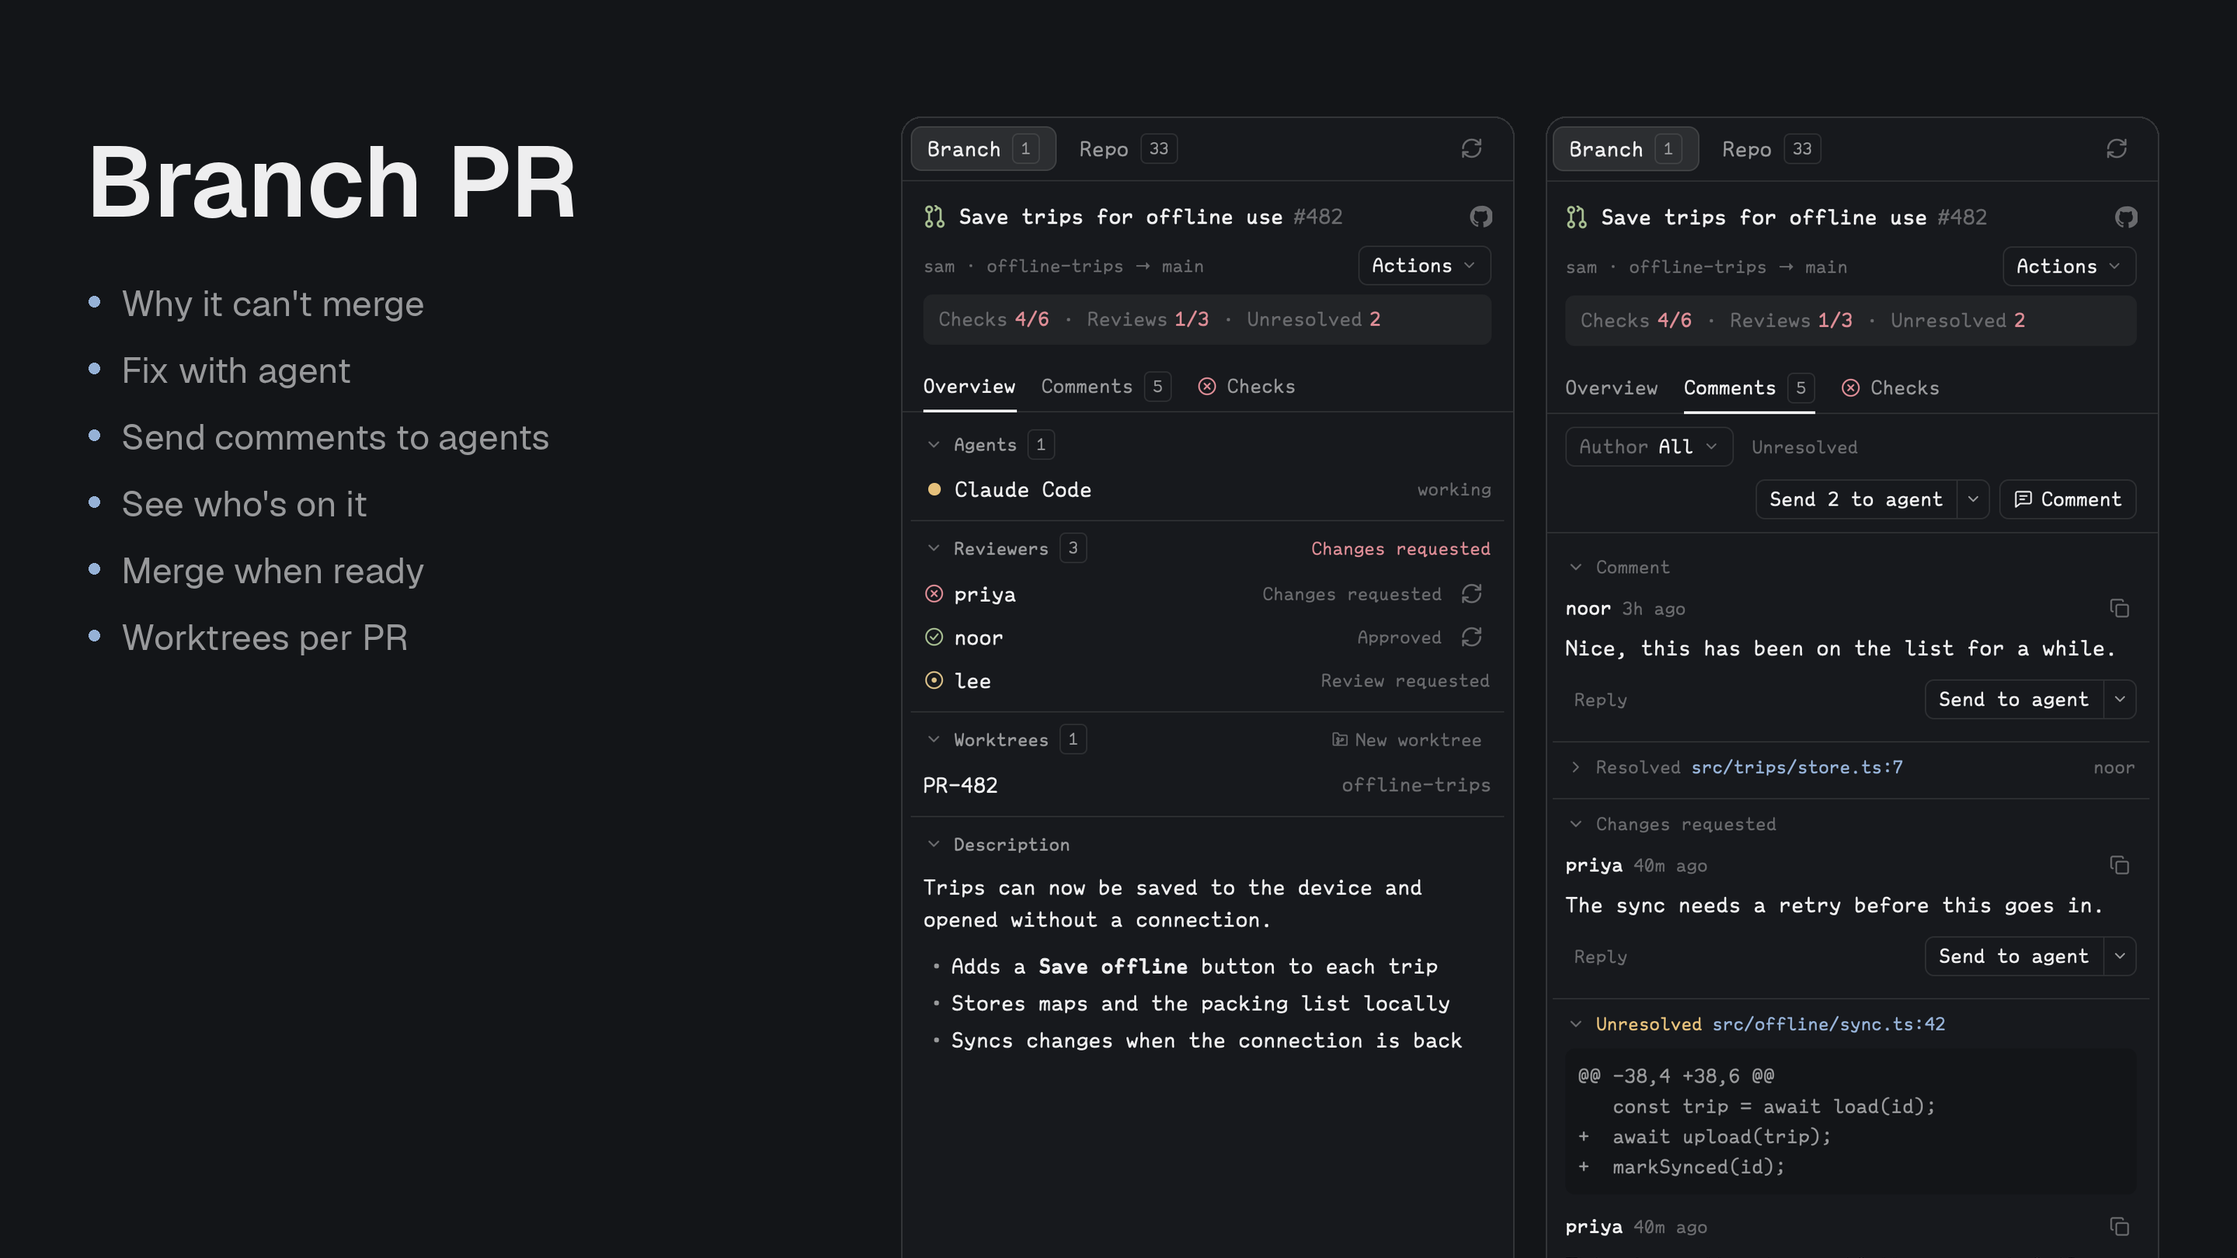
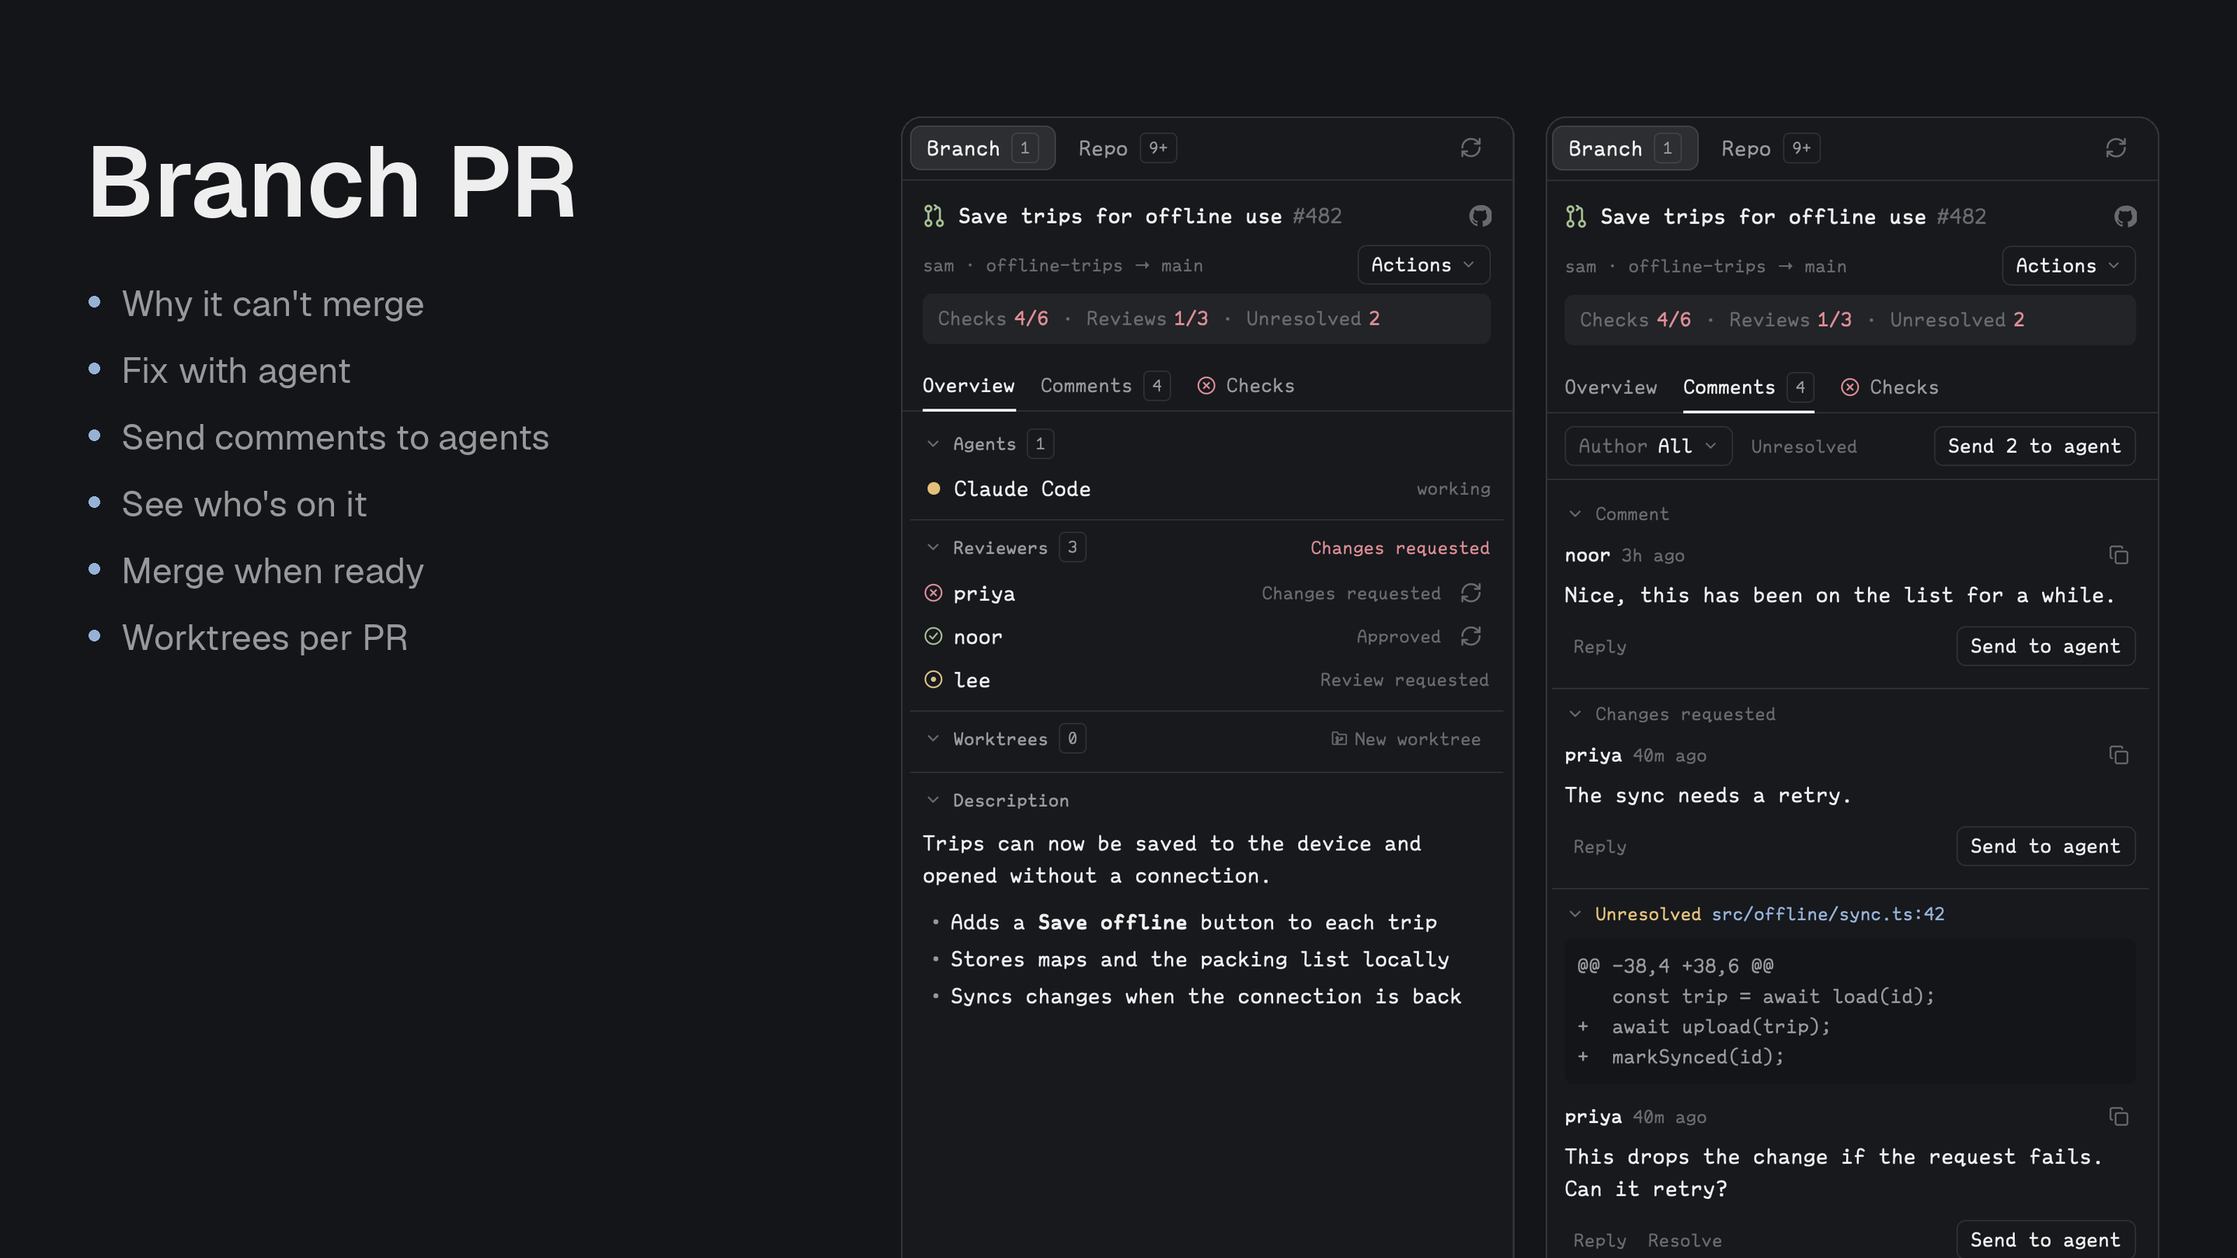
Add a repo image and bring the docs up to date
Adds an image to the root README and retakes Branch PR's preview, which still
showed the old Comment button. Drops Better Tabs' preview and the last mention of
Collie, and corrects what the READMEs and RECIPEs say about Hands' tabs, layout
blocks, tab icons and each mod's requirements.

diff --git a/hands/RECIPE.md b/hands/RECIPE.md
@@ -1,10 +1,10 @@
 # hands
 
-A Herdr mod that gives a coding agent hands on the rest of the Mac through one command, `hands`: list apps and windows, read an app's accessibility tree as numbered lines, press, set, focus, type, key chords, scroll, screenshot a window, record the screen. Built from scratch on the system frameworks: Go with cgo and Objective-C, no third-party computer-use tool as a dependency or a reference. Simple, light, just works. The mod pane is tiny and shows only permission state, a button to ask for it, and whether a recording runs.
+A Herdr mod that gives a coding agent hands on the rest of the Mac through one command, `hands`: list apps and windows, read an app's accessibility tree as numbered lines, press, set, focus, type, key chords, scroll, screenshot a window, record the screen. Built from scratch on the system frameworks: Go with cgo and Objective-C, no third-party computer-use tool as a dependency or a reference. Simple, light, just works. The mod pane shows screenshots and recordings, a filterable history of actions, permission state with a button to ask for it, and whether a recording runs.
 
 ## What you see
 
-The pane, `place: none`, follows the other sidebars: a 42px header with "Captures [n]" and "Actions [n]" tabs and a refresh icon, a scrolling body, and a 34px footer with a dot and "Recording <file>" or "Not recording". While a permission is missing, a bordered raised block sits under the header with one row each for Accessibility and Screen Recording: a dot, the label, why it is needed, and "Granted" or its own **Grant access** button. A button runs `hands permissions --ask=<name>`, then opens that permission in System Settings if it is still missing, since macOS prompts only once. The block goes away when both are granted. Both tabs follow Better Changes' Commits tab: a scrolling list with 6px padding, a collapsible group heading per day (Today, Yesterday, then `Nov 3`) with a count badge and a rule between days, and two-line rows with a title and small dim details. The Actions tab lists `hands actions`, newest first, titled by verb and target (`Screenshot Trailhead`), with details of the output file in the accent colour or the error in `ansi1`, the app, the terminal's `labels.where` from `hc get` and when. A row with a file opens it on Cmd-click only, through `open`, and has a folder button that runs `open -R`. A file that has gone says so and has neither. The helper appends one line per click, set, focus, type, key, scroll, shot and finished recording, and per failure of any of those or of `record start` or `stop`, to `actions.jsonl` in the state folder, with typed and set text left out, trimming to the last 200 past 256 KB. The Recordings tab lists `hands record list`, newest first, as the note or what was recorded, what and when in the details, and the length on the right in the code font. Selecting one replaces the header with a back chevron, the length and a folder button, then shows the note in medium weight, what and when, a Files group holding the movie as a file row with its size, which opens on Cmd-click, and an Actions group with the actions inside the recording's time span, in order, limited to its app when it recorded one. It polls every `settings.pane.refresh`, never closer than 1s.
+The pane, `place: none`, follows the other sidebars: a 42px header with "Captures [n]" and "Actions [n]" tabs and a refresh icon, a scrolling body, and a 34px footer with a dot and "Recording <file>" or "Not recording". While a permission is missing, a bordered raised block sits under the header with one row each for Accessibility and Screen Recording: a dot, the label, why it is needed, and "Granted" or its own **Grant access** button. A button runs `hands permissions --ask=<name>`, then opens that permission in System Settings if it is still missing, since macOS prompts only once. The block goes away when both are granted. Both tabs follow Better Changes' Commits tab: a scrolling list with 6px padding, a collapsible group heading per day (Today, Yesterday, then `Nov 3`) with a count badge and a rule between days, and two-line rows with a title and small dim details. The Captures tab, shown first, merges the screenshots from `hands actions` with `hands record list`, newest first. The Actions tab lists `hands actions`, newest first, under a filter row with a small chooser of All actions, Failed and each kind that has happened, with counts, titled by verb and target (`Screenshot Trailhead`), with details of the output file in the accent colour or the error in `ansi1`, the app, the terminal's `labels.where` from `hc get` and when. A row with a file opens it on Cmd-click only, through `open`, and has a folder button that runs `open -R`. A file that has gone says so and has neither. The helper appends one line per click, set, focus, type, key, scroll, shot and finished recording, and per failure of any of those or of `record start` or `stop`, to `actions.jsonl` in the state folder, with typed and set text left out, trimming past 256 KB to the last 200 actions and, counted apart, the last 200 screenshots, so a run of clicks can't push them out of Captures. A recording's row shows the note or what was recorded, what and when in the details, and the length on the right in the code font. Selecting one replaces the header with a back chevron, the length and a folder button, then shows the note in medium weight, what and when, a Files group holding the movie as a file row with its size, which opens on Cmd-click, and an Actions group with the actions inside the recording's time span, in order, limited to its app when it recorded one. It polls every `settings.pane.refresh`, never closer than 1s.
 
 The CLI prints plain text: `see` prints a header line then `index  role "title" [description] = "value" placeholder "…" (x,y w×h) disabled focused`, indented two spaces per depth; `--find` prints matches starred with their ancestors; capped output says how many lines are hidden. `--json` returns the data instead. Every error names the fix, especially the two permissions.
 

diff --git a/README.md b/README.md
@@ -2,6 +2,8 @@
 
 Independent mods for [Herdr Desktop](https://herdr.dev/).
 
+![Herdr Mods](preview.png)
+
 A collection of standalone mods—not a bundled workflow or replacement layout. Choose a mod below and install only that package.
 
 ## Available mods
@@ -23,10 +25,6 @@ A collection of standalone mods—not a bundled workflow or replacement layout. 
 ### Better Sidebar
 
 ![Better Sidebar](better-sidebar/preview.png)
-
-### Better Tabs
-
-![Better Tabs](better-tabs/preview.png)
 
 ### Branch PR
 
@@ -60,7 +58,7 @@ Each mod's README covers its features and requirements; its `RECIPE.md` guides i
 
 ## Versions and settings
 
-Every mod carries a `version` and a `settings` block in its `mods/<name>/mod.json`, which the installed copy keeps, so `cat ~/.config/herdr-app/mods/<name>/mod.json` shows what a Herdr has and what it is set to. Edit the installed file to change a setting; Herdr reloads the mod at once. Mods with a Go helper have an installer that keeps your settings and print the new and previous version on `--update`; the others are updated by copying their `mods/<name>/` folder again, after which you re-apply your edits. Each README lists its keys. Bump the version with any change that is worth updating for.
+Every mod carries a `version` and a `settings` block in its `mods/<name>/mod.json`, which the installed copy keeps, so `cat ~/.config/herdr-app/mods/<name>/mod.json` shows what a Herdr has and what it is set to. Edit the installed file to change a setting; Herdr reloads the mod at once. Mods with a Go helper have an installer that keeps your settings and prints the new and previous version on `--update`; the others are updated by copying their `mods/<name>/` folder again, after which you re-apply your edits. Each README lists its keys. Bump the version with any change that is worth updating for.
 
 ## Test
 
@@ -80,7 +78,7 @@ Requires Node.js and Go for development tests:
 (cd factory/helper && go test ./... && go vet ./...)
 ```
 
-The mods use Herdr's native JavaScript runtime, without Node.js at runtime. Better Changes uses Git; Better Sidebar uses Git, the GitHub CLI, and Herdr's `hc`. Better Tabs uses Herdr commands and has no external executable dependency. Branch PR uses Git, `gh`, `hc`, and a bundled local Go helper (built during installation with Go 1.23+); see its README for access and explicit write actions. hands uses macOS's Accessibility and ScreenCaptureKit frameworks through a bundled Go helper and needs Herdr to be granted Accessibility and Screen Recording; see its README before installing.
+The mods use Herdr's native JavaScript runtime, without Node.js at runtime. Better Changes uses Git; Better Sidebar uses Git, the GitHub CLI, and Herdr's `hc`. Better Tabs uses Herdr commands and has no external executable dependency. Branch PR uses Git, `gh`, `hc`, and a local Go helper built during installation with Go 1.23+; see its README for access and explicit write actions. Branch Issue uses Git, `hc`, and a local Go helper, built the same way, that reaches Linear with your `LINEAR_API_KEY`; see its README too. hands uses macOS's Accessibility and ScreenCaptureKit frameworks through a Go helper built on your machine, and needs Herdr to be granted Accessibility and Screen Recording; see its README before installing. Factory uses `hc`, Claude Code, optionally the Codex CLI, and a local Go helper; it starts agent sessions, so see its README first.
 
 ## License
 

diff --git a/hands/README.md b/hands/README.md
@@ -1,6 +1,6 @@
 # hands
 
-Hands for a coding agent on the rest of the Mac, as a Herdr mod for [Herdr Desktop](https://herdr.dev/): a small `hands` command that lists apps and windows, reads an app's accessibility tree as numbered lines, clicks, types, presses keys, sets values, scrolls, screenshots a window and records the screen. Plus a tiny pane that shows whether Herdr holds the two permissions it needs.
+Hands for a coding agent on the rest of the Mac, as a Herdr mod for [Herdr Desktop](https://herdr.dev/): a small `hands` command that lists apps and windows, reads an app's accessibility tree as numbered lines, clicks, types, presses keys, sets values, scrolls, screenshots a window and records the screen. Plus a panel with its screenshots and recordings, a history of what it did, and whether Herdr holds the two permissions it needs.
 
 ![hands](preview.png)
 
@@ -35,10 +35,10 @@ The installer builds the helper, copies **only** `mods/hands/` and the binary to
 The manifest has `place: none`. To show the pane, add a block to a layout you own, for example in the panel stack:
 
 ```json
-{ "mod": "hands" }
+{ "id": "hands", "type": "block", "content": { "mod": "hands" } }
 ```
 
-While a permission is missing, a block lists Accessibility and Screen Recording, each with its own **Grant access** button that prompts for that one and, if macOS shows no prompt, opens its place in System Settings. The block goes away once both are granted. Below it are two tabs. Both read like Better Changes' Commits tab, in collapsible days. **Actions** lists what `hands` did or failed to do, newest first: the action and what it touched, then any output file or the error in red, the app, the Herdr terminal that asked, and when. Cmd-click a row with a file to open it, or press the folder button to show it in Finder. **Recordings** lists past recordings with their length; selecting one shows its summary, what it recorded, when, the movie with its size, which opens on Cmd-click, and the actions taken during it, with the same folder button in the header. The footer shows whether a recording is running.
+While a permission is missing, a block lists Accessibility and Screen Recording, each with its own **Grant access** button that prompts for that one and, if macOS shows no prompt, opens its place in System Settings. The block goes away once both are granted. Below it are two tabs. Both read like Better Changes' Commits tab, in collapsible days. **Captures** lists screenshots and recordings together, newest first. Cmd-click a screenshot to open it, or press the folder button to show it in Finder. Recordings show their length; selecting one shows its summary, what it recorded, when, the movie with its size, which opens on Cmd-click, and the actions taken during it, with the same folder button in the header. **Actions** lists what `hands` did or failed to do: the action and what it touched, then any output file or the error in red, the app, the Herdr terminal that asked, and when. A menu above the list filters it by kind of action, or to the failures. The footer shows whether a recording is running.
 
 ### The skill
 

diff --git a/better-sidebar/RECIPE.md b/better-sidebar/RECIPE.md
@@ -26,7 +26,7 @@ For PR status, read the symbolic branch and any explicit `branch.<branch>.herdr-
 
 Poll PRs no more than once per minute per checkout unless the observed branch changes. Cache identical successful gh queries for a minute. Deduplicate checkout paths including machine identity. Ignore late responses after a branch switch or checkout removal. Retain last-good status on a network/authentication error only for the same branch and mark it stale; otherwise show PR unavailable. Explain failures in tooltips. Do not spawn jobs or notify on every fast context tick when nothing is due.
 
-Agent states are not PR states: working/blocked/done/idle do not change the PR's color. Keep the existing compact attention glyph behavior, with blocked/done drawing a dot. The regular agents list remains a separate mod.
+Agent states are not PR states: working/blocked/done/idle do not change the PR's color. Keep the existing compact attention glyph behavior, with blocked/done drawing a dot. The agents list is a separate block of this mod.
 
 ## Built from
 

diff --git a/better-tabs/README.md b/better-tabs/README.md
@@ -2,8 +2,6 @@
 
 A tab bar for [Herdr Desktop](https://herdr.dev/): tabs you can drag, that wrap onto more lines when they don't fit, and a toolbar for your panels with a menu to tuck away the ones you rarely use.
 
-![Better Tabs](preview.png)
-
 - **Drag tabs** to reorder them. A separate line in the gap between tabs shows where the tab will land.
 - **Tabs wrap** onto more lines, and the bar grows to hold them.
 - The **+** sits right after the last tab.
@@ -63,7 +61,7 @@ Your arrangement is saved per layout, by button ID, and doesn't edit the layout 
 
 `herdr-app do better-tabs.button:changes` runs a button by ID, and `herdr-app do better-tabs.overflow` opens the menu. Bind them in `keys.json` if you like; the mod installs no keys.
 
-A mod's tab shows the icon it publishes in the `mod-icons` shared map. Better Changes and Branch PR do this.
+A mod's tab shows the icon it publishes in the `mod-icons` shared map. Better Changes does this.
 
 ## Settings
 

diff --git a/better-sidebar/README.md b/better-sidebar/README.md
@@ -88,7 +88,7 @@ In `mods/better-sidebar/`:
 - `views/spaces.js`, `views/agents.js`, `views/footer.js`, `views/panel-toggle.js`: the parts. `views/ui.js`: the design kit, Herdr's sizes and small components, with only what this mod uses.
 - `icons/`: this mod's icons.
 - `sync.sh`: copies the mod into Herdr, which reloads it. A symlink loads the code but not the icons.
-- `tests/spaces.test.cjs` — isolated Herdr/GPUI stand-ins for discovery, polling, races, grouping, rendering, and packaging.
+- `tests/spaces.test.cjs` and `tests/agents.test.cjs`: isolated Herdr/GPUI stand-ins for discovery, polling, races, grouping, rendering, and packaging.
 
 ```sh
 node --test tests/*.test.cjs

diff --git a/better-tabs/RECIPE.md b/better-tabs/RECIPE.md
@@ -2,8 +2,6 @@
 
 A tab bar for a person's existing Herdr layout: draggable tabs that wrap onto more lines, a + after the last tab, and a toolbar of panel buttons with a ⋮ menu to hide them in.
 
-![Better Tabs](preview.png)
-
 ## What you see
 
 A theme-chrome bar 42px high, growing as tabs wrap, with a 1px bottom `border`. Tabs and toolbar start 6.5px from the top. Tabs are 29px pills with radius 7, 10px padding, a 7px gap inside and 6px between, in 12.8px text. The active tab is `raised` with a `border` edge and a ×; others are plain in `muted`. A tab shows its program's icon at 14px, its name up to 170px, a 12px spinning `working` icon, or a 6px `blocked` or `done` dot.

diff --git a/branch-pr/README.md b/branch-pr/README.md
@@ -53,7 +53,7 @@ The installer builds the helper, copies only `mods/branch-pr/` to `~/.config/her
 The manifest has `place: none`, so add it to a layout you own, about 368px wide:
 
 ```json
-{ "mod": "branch-pr", "props": { "mode": "branch" } }
+{ "id": "pull-requests", "type": "block", "content": { "mod": "branch-pr" } }
 ```
 
 With Better Tabs, a button can open it (`target` is that block's layout ID):

diff --git a/branch-issue/README.md b/branch-issue/README.md
@@ -49,7 +49,7 @@ The installer builds the helper, copies only `mods/branch-issue/` to `~/.config/
 The manifest has `place: none`, so add it to a layout you own, about 368px wide:
 
 ```json
-{ "mod": "branch-issue" }
+{ "id": "linear-issues", "type": "block", "content": { "mod": "branch-issue" } }
 ```
 
 With Better Tabs, a button can open it (`target` is that block's layout ID):
